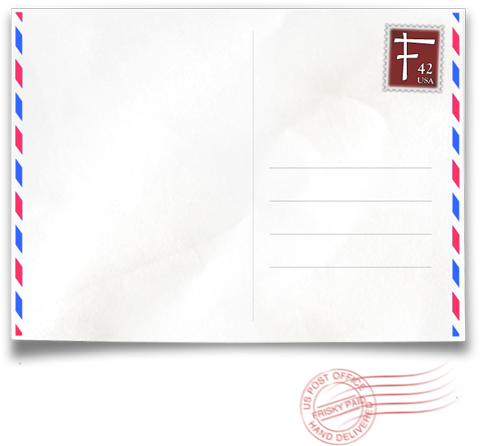
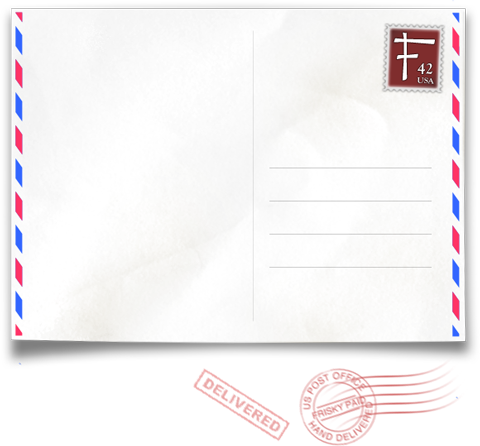
Postcard changes: disable Submit tag, delivered stamp

Changed region(s): [[0.4062, 0.8161, 0.625, 0.991]]

diff --git a/public/javascripts/wave.js b/public/javascripts/wave.js
@@ -36,9 +36,11 @@ jQuery(document).ready(function($) {
         var $polaroid = $(event.target.getTrigger()).closest('.polaroid');
         var $receiver = $polaroid.find('.front.face .username').text();
         $postcard
-					.find('.franking').hide()
+					.find('.franking, .delivered').hide()
 					.end()
-					.find('button[type="submit"]').button('enable');
+					.find('button[type="submit"]').button('enable')
+					.end()
+					.find('#posting_message_receiver_id').val($polaroid.data('profile_id'));
         var msg = 'Hey ' + $receiver + ',\n\n';
         $('textarea', $postcard).val(msg + '\n\nSincerely,\n' + $sender).focus();
         var address = 'To: '+ $receiver + "<br/>From: " + $sender;
@@ -63,8 +65,13 @@ jQuery(document).ready(function($) {
 				return true;
 			})
 			.bind('ajax:success', function(xhr, data, status){
-				$trigger.overlay().close();
-			});
+				$postcard.find('.delivered').fadeIn();
+				setTimeout(function(){ $trigger.overlay().close(); }, 700);
+			})
+			.bind('ajax:complete', function(){
+				$postcard.find('button[type="submit"]').button('enable');
+			})
+			.bind('ajax:failure', function(){ alert("Couldn't send your message. Try again or Cancel."); });
 
   // Tabs
   $('.wave.nav li:eq(0)').button({ icons: { primary: 'ui-icon-pencil' }});

diff --git a/public/stylesheets/friskyhands/waves.css b/public/stylesheets/friskyhands/waves.css
@@ -54,17 +54,27 @@
 }
 
 #message-postcard .stamp {
+	position: relative;
     width: 160px;
     height: 118px;    
 }
 
 #message-postcard .franking {
-    position: relative;
-    top: 20px;
-    left: -10px;
+    position: absolute;
+    top: 10px;
+    left: 0;
     width: 160px;
     height: 78px;
     background: url('/images/friskyhands/postcard.png') no-repeat -290px -368px;
+}
+
+#message-postcard .delivered {
+    position: absolute;
+    top: 140px;
+    left: 40px;
+    width: 100px;
+    height: 76px;
+    background: url('/images/friskyhands/postcard.png') no-repeat -190px -368px;
 }
 
 #message-postcard .address {

diff --git a/config/routes.rb b/config/routes.rb
@@ -10,9 +10,7 @@ Friskyfactory::Application.routes.draw do |map|
     resources :profiles, :only => [] do
       member { get :photos }
     end
-    resources :messages, :only => [ :create ] do
-      member { post :reply }
-    end
+    resources :messages, :only => [ :create ]
     get ':slug' => 'base#show', :as => 'slug', :constraints => { :slug => /\D\w*/ }
   end
 
@@ -25,11 +23,7 @@ Friskyfactory::Application.routes.draw do |map|
       resources :photos, :only => [ :create ]
     end
   end
-  
-  # resources :messages, :only => [ :create ] do
-  #   member { post :reply }
-  # end
-  
+
   # To add a comment to a posting
   map.resources :postings, :only => [] do |posting|
     posting.resources :comments, :only => [ :new, :create ], :controller => 'postings/comments'
